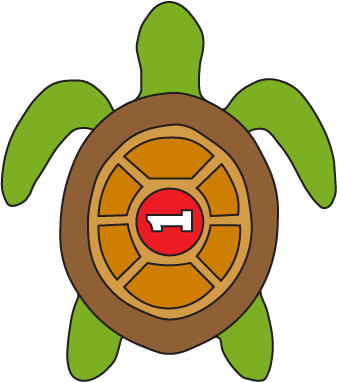
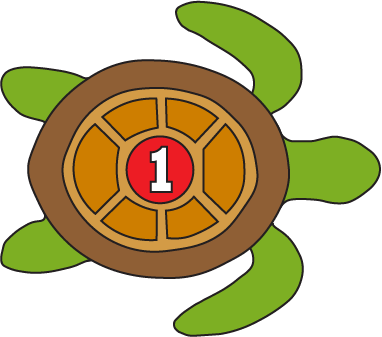
Position the turtles

diff --git a/index.html b/index.html
@@ -7,6 +7,24 @@
     <link rel="stylesheet" href="./style.css">
 </head>
 <body>
+
+    <div class="race">
+        <div class="turtles">
+
+            <div class="turtle1">
+                <img src="./images/turtle01.png" alt="turtle01">
+            </div>
+
+            <div class="turtle2">
+                <img src="./images/turtle02.png" alt="turtle02">
+            </div>
+
+            <div class="turtle3">
+                <img src="./images/turtle03.png" alt="turtle03">
+            </div>
+
+        </div>
+    </div>
     
 </body>
 </html>

diff --git a/style.css b/style.css
@@ -4,11 +4,29 @@
 
 body{
     background-image: url(./images/TRACK.png);
-    height: 100vh;
+    height: 100VH;
     background-size: cover;
     background-position: center center;
     background-repeat: no-repeat;
     display: flex;
     justify-content: center;
     align-items: center;
+}
+
+.turtles img{
+    width: 50%;
+    margin-left: 55%;
+}
+
+.race{
+    width: 100%;
+    height: 100%;
+}
+
+.turtles{
+    display: flex;
+    flex-direction: column;
+    height: 100%;
+    justify-content: space-evenly;
+    align-items: start;
 }
